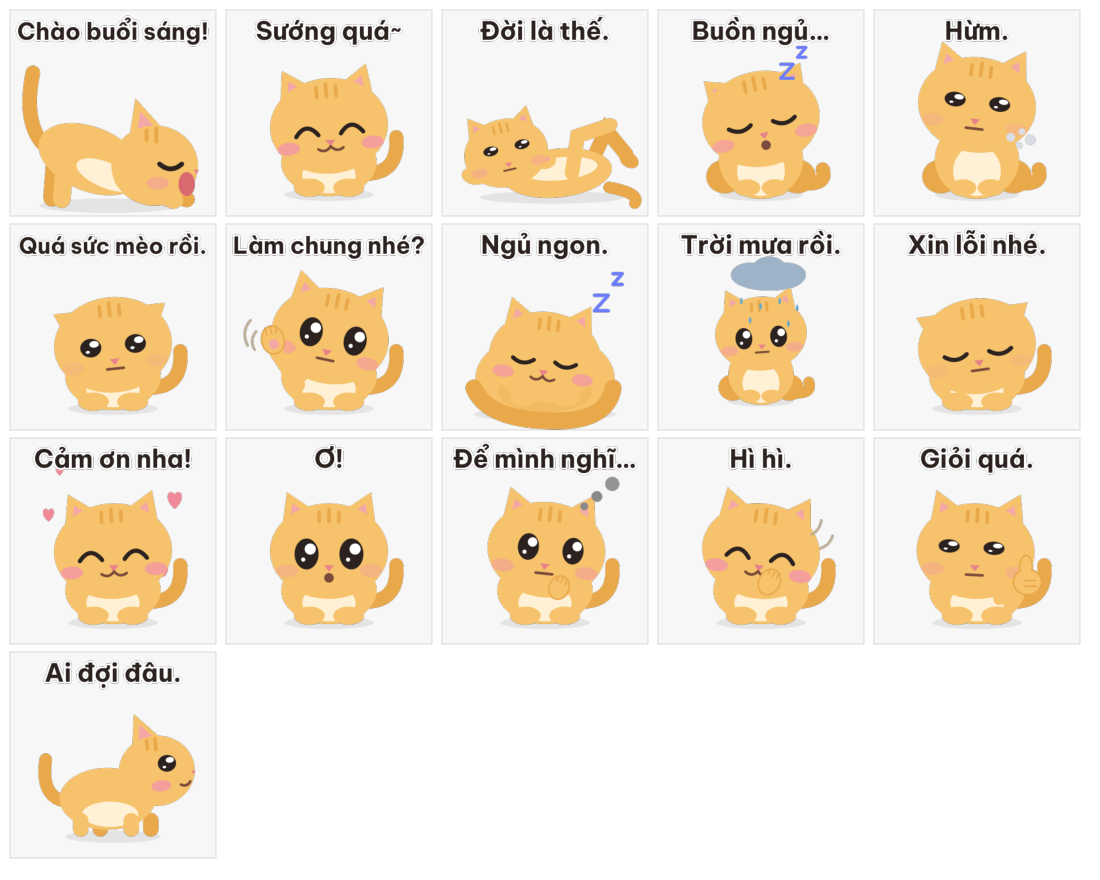
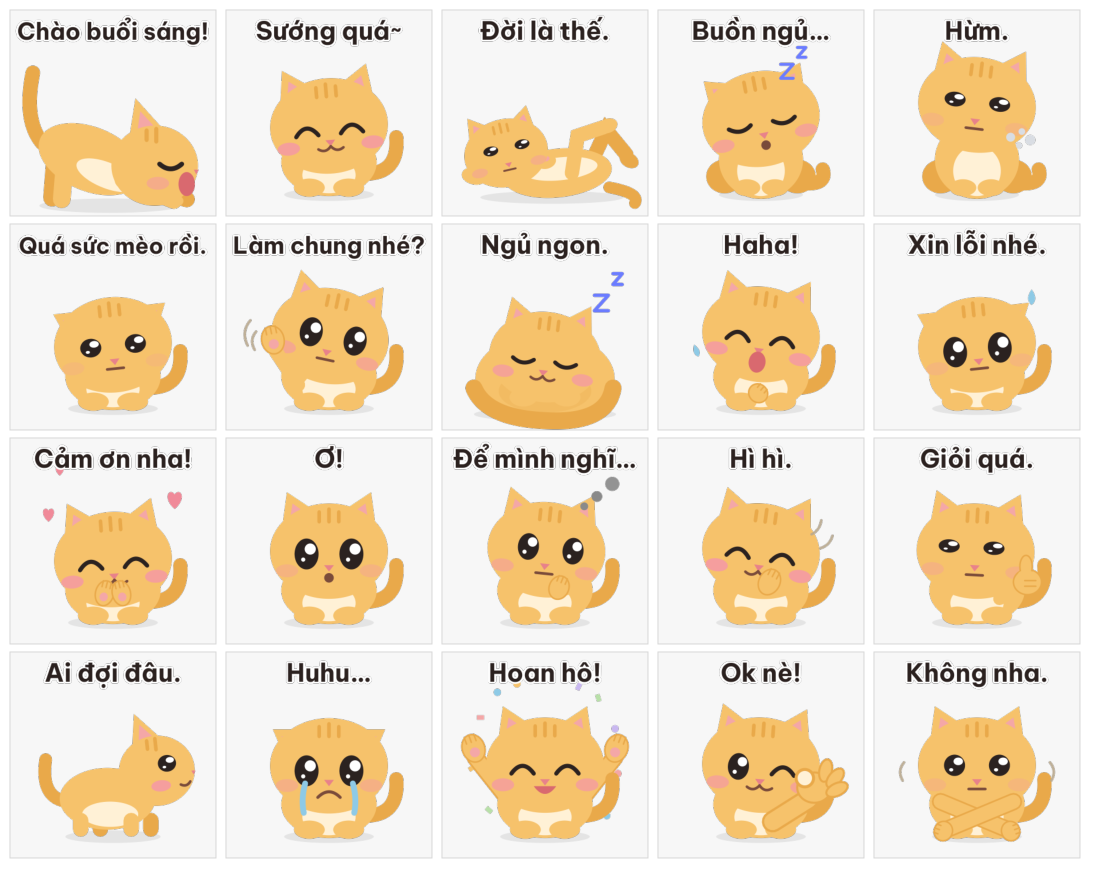
Stickers: 20 in the set: Haha, Huhu, Hoan hô, Ok nè, Không nha added; rain removed; thanks and sorry made distinct

diff --git a/docs/plans/assets/stickers/build_stickers.py b/docs/plans/assets/stickers/build_stickers.py
@@ -128,6 +128,8 @@ LOOK = {
 def eye_svg(e, look):
     if e["rx"] < 0.3 or e["a"] ** 3 < 0.02:
         return ""
+    if look.get("wink") and e["x"] > 60:
+        look = dict(look, happy=1, lid=1)
     x, y, rx, ry = e["x"] + look["gx"] * 0.75, e["y"] + look["gy"] * 0.75, e["rx"], e["ry"]
     s = rx / 7.5
     hp = max(0, min(1, 1.6 * look["happy"] - 0.6))
@@ -305,6 +307,47 @@ def thumbs_up(x, y):
     return o
 
 
+def sweat():
+    return '<path d="M99 30 Q104 37 99 41 Q94 37 99 30" fill="#8ecae6"/>'
+
+
+def tears():
+    t = "".join(stroke_path(d, "#8ecae6", 4.2) for d in ("M43 77 Q40 88 42 98", "M77 77 Q80 88 78 98"))
+    return t + '<path d="M52 87 Q60 79 68 87" fill="none" stroke="#7a4b3a" stroke-width="2.2" stroke-linecap="round"/>'
+
+
+def joy_tears():
+    o = ""
+    for x, y, r in ((22, 62, -30), (98, 62, 30), (14, 74, -20), (106, 74, 20)):
+        o += f'<path transform="translate({x},{y}) rotate({r})" d="M0 -5 Q4 1 0 4 Q-4 1 0 -5" fill="#8ecae6"/>'
+    return o
+
+
+def arm(d, w=10):
+    """A fur arm with a thin darker edge, so it shows against the cream belly or the fur of the body."""
+    return stroke_path(d, DARK, w + 2.4) + stroke_path(d, FUR, w)
+
+
+def arms_up():
+    return arm("M40 96 L10 58") + arm("M80 96 L110 58")
+
+
+def ok_sign(x, y):
+    """A paw making the 'ok' ring, three fingers up (sticker art)."""
+    o = f'<g transform="translate({f(x)},{f(y)}) scale(1.35) translate({f(-x)},{f(-y)})">' + arm(f"M76 98 L{f(x - 3)} {f(y + 6)}", 9)
+    o += f'<ellipse cx="{f(x)}" cy="{f(y)}" rx="9" ry="8" fill="{FUR}" stroke="{DARK}" stroke-width="1.1"/>'
+    for dx, dy, r in ((6, -9, 12), (11, -5, 40), (12, 1, 65)):
+        o += f'<ellipse cx="{f(x + dx)}" cy="{f(y + dy)}" rx="3.3" ry="6" fill="{FUR}" stroke="{DARK}" stroke-width="1.1" transform="rotate({r} {f(x + dx)} {f(y + dy)})"/>'
+    o += f'<circle cx="{f(x - 5)}" cy="{f(y - 5)}" r="4.6" fill="{BELLY}" stroke="{DARK}" stroke-width="1.6"/>' + "</g>"
+    return o
+
+
+def crossed_arms():
+    o = arm("M34 90 L82 110") + arm("M86 90 L38 110")
+    o += paw(84, 111, 7, 6.5, 70) + paw(36, 111, 7, 6.5, -70)
+    return o
+
+
 def arcs(*specs):
     return "".join(stroke_path(d, "#b9a98f", 1.8, 0.9) for d in specs)
 
@@ -384,14 +427,18 @@ STICKERS = [
     ("06", "Quá sức mèo rồi.", lambda: cat(STAND_F, LOOK["sad"])),
     ("08", "Làm chung nhé?", lambda: cat(STAND_F, dict(LOOK["curious"], roll=12, wide=0.6, cheek=0.7)) + stroke_path("M38 98 L22 74", FUR, 10) + paw(20, 66, 8, 10, -12, True) + arcs("M8 60 q-5 6 -1 13", "M4 52 q-7 8 -2 18")),
     ("09", "Ngủ ngon.", curled_up, dict(scale=2.7, dy=-14)),
-    ("10", "Trời mưa rồi.", lambda: cat(SIT_F, dict(LOOK["curious"], roll=-4, gx=0, gy=2, wide=0.2)) + wrap(cloud_and_rain(), 18, -16, 0.8), dict(scale=1.9, dy=40)),
-    ("11", "Xin lỗi nhé.", lambda: cat(STAND_F, dict(LOOK["sad"], roll=-8, dy=6, lid=0.08))),
-    ("12", "Cảm ơn nha!", lambda: hearts() + cat(STAND_F, dict(LOOK["purr"], roll=-3, dy=0))),
+    ("18", "Haha!", lambda: joy_tears() + cat(STAND_F, dict(LOOK["happy"], mouth="yawn", roll=8, dy=-2, cheek=0.95)) + paw(58, 104, 7, 6.5, 40)),
+    ("11", "Xin lỗi nhé.", lambda: cat(STAND_F, dict(LOOK["sad"], roll=-6, dy=5, lid=1, wide=0.9, cheek=0.3, droop=1)) + sweat()),
+    ("12", "Cảm ơn nha!", lambda: hearts() + cat(STAND_F, dict(LOOK["purr"], roll=-4, dy=6)) + paw(54, 94, 6.5, 9, 14, True) + paw(66, 94, 6.5, 9, -14, True)),
     ("13", "Ơ!", lambda: cat(STAND_F, LOOK["gasp"])),
     ("14", "Để mình nghĩ…", lambda: cat(STAND_F, dict(LOOK["think"], roll=6, dots=0)) + paw(70, 90, 7, 8.5, 22) + ell(88, 32, 2.8, 2.8, "#8a8a8a") + ell(97, 25, 3.8, 3.8, "#8a8a8a") + ell(108, 16, 5, 5, "#8a8a8a", 0, 0.9)),
     ("15", "Hì hì.", lambda: cat(STAND_F, dict(LOOK["purr"], roll=8, dy=0, mouth="smile", cheek=1.0)) + paw(66, 86, 7.5, 9.5, 28) + arcs("M96 52 q6 -3 7 -10", "M102 62 q7 -2 9 -9")),
     ("16", "Giỏi quá.", lambda: cat(STAND_F, dict(LOOK["smirk"], lid=0.5, gx=-4, roll=3, mouth="flat", cheek=0.4)) + thumbs_up(96, 86)),
     ("17", "Ai đợi đâu.", lambda: cat(STAND_S, dict(LOOK["rest"], lid=0.7, roll=-6, mouth="smile", cheek=1.0, gx=-3))),
+    ("19", "Huhu…", lambda: cat(STAND_F, dict(LOOK["sad"], roll=0, dy=0, lid=1, wide=1, cheek=0.5, droop=1, mouth="none")) + tears()),
+    ("20", "Hoan hô!", lambda: confetti() + arms_up() + cat(STAND_F, dict(LOOK["happy"], dy=0)) + paw(9, 52, 8, 10, -20, True) + paw(111, 52, 8, 10, 20, True)),
+    ("21", "Ok nè!", lambda: cat(STAND_F, dict(LOOK["rest"], wink=1, mouth="smile", cheek=0.8, roll=4)) + ok_sign(98, 80)),
+    ("22", "Không nha.", lambda: cat(STAND_F, dict(LOOK["rest"], lid=0.8, mouth="flat", cheek=0.3, roll=0)) + crossed_arms() + arcs("M8 62 q-5 6 -1 13", "M112 62 q5 6 1 13")),
 ]
 
 S = 2.45

diff --git a/docs/plans/sticker-expression-audit.md b/docs/plans/sticker-expression-audit.md
@@ -2,6 +2,8 @@
 
 Done after the author removed the clapping "Giỏi quá!" (it duplicated 16, "Giỏi quá." with a thumbs-up) and asked for a review of how different the emotions of the set are. Set: 16 stickers (Zalo needs 12 to 20), files `01.png` to `16.png` in [`assets/stickers/set-v0/`](assets/stickers/set-v0/). The list ids used in older documents (the first list had 15, then 16 and 17 were added) differ from the file numbers after the removal: see the mapping in `sticker-set-v0.md`.
 
+**Decided the same day (the author's choices): add Haha, Huhu, Hoan hô, "Ok nè!" and "Không nha." (5 new, so the set reaches 20 = the Zalo maximum), remove the rain sticker for them, and make "Cảm ơn nha!" and "Xin lỗi nhé." differ from their look-alikes. All were drawn the same day (section 5).**
+
 ## 1. What each sticker says (file number, text, emotion, eyes, mouth, gesture)
 
 | File | Text | Emotion or use | Eyes | Mouth | Gesture or prop |
@@ -24,7 +26,7 @@ Done after the author removed the clapping "Giỏi quá!" (it duplicated 16, "Gi
 | 16 | Ai đợi đâu. | proud, secretly glad | half lid | smile | side view, strong cheeks |
 
 ## 2. Findings
-1. **The set is subdued.** Eyes: 7 of 16 are closed arcs (01, 02, 04, 08, 10, 11, 14), 5 are half-lidded deadpan (03, 05, 06, 15, 16 is half-lidded too), the rest open. Mouths: 6 are a flat line (03, 05, 06, 07, 13, 15). Nothing has a wide-open mouth for laughter or crying. At 120 px the face is what is read, so many stickers share one face (closed arcs and a small smile).
+1. **The set is subdued.** Eyes: 7 of 16 are closed arcs (01, 02, 04, 08, 10, 11, 14), 5 are half-lidded deadpan (03, 05, 06, 15, 16), the rest open. Mouths: 6 are a flat line (03, 05, 06, 07, 13, 15). Nothing has a wide-open mouth for laughter or crying. At 120 px the face is what is read, so many stickers share one face (closed arcs and a small smile).
 2. **Near-duplicates.** 02 "Sướng quá~" and 11 "Cảm ơn nha!" have the same face (closed arcs, smile) and differ only by the hearts. 14 "Hì hì." also has closed arcs; it is saved by the paw over the mouth. 06 and 10 are both "sad ears" (overwhelmed, sorry).
 3. **Gaps in the emotions people send** (compared with the uses listed in `sticker-set-v1-direction.md` section 1): **laughing out loud** ("haha"), **crying** ("huhu"), **celebrating** (the clap went; nothing high-energy and happy is left), **agreeing** ("ok") and **saying no** ("không"), **embarrassed** (shy), **mildly angry** (05 is a sulk, not anger). Love is covered by 11.
 4. **Rain (09)** is a weather state, not an emotion; it will be sent rarely compared with the gaps above.
@@ -51,3 +53,6 @@ Done after the author removed the clapping "Giỏi quá!" (it duplicated 16, "Gi
 
 ## 4. Constraints to keep
 At most 4 words of text, nothing that Zalo bans, flat style, no app name (ADR-0049); no guilt (charter). Every gesture above (circle, crossed paws, tears) is sticker art, not an app pose; the face comes from the rig's dials (lid, mouth, cheek, ears).
+
+## 5. Result (2026-11-11): the set of 20
+Files `01.png` to `20.png`. Compared with the 16 above: the rain sticker is replaced by **09 "Haha!"** (closed arcs, a wide open mouth, tears of joy, a paw on the belly); **10 "Xin lỗi nhé."** now has big wet eyes, ears down and a sweat drop; **11 "Cảm ơn nha!"** presses the paws together under the chin, with hearts; and four are added at the end: **17 "Huhu…"** (wide wet eyes, two streams of tears, a frown, ears down), **18 "Hoan hô!"** (both paws up in a V, confetti), **19 "Ok nè!"** (a wink and a paw making the ok ring), **20 "Không nha."** (arms crossed in an X, firm eyes). Files 12 to 16 are unchanged from the list above (Ơ!, Để mình nghĩ…, Hì hì., Giỏi quá., Ai đợi đâu.). The gestures are sticker art; the faces use the rig's dials. Sarcasm share is still 5 of 20 (25%): 03, 05, 14, 15, 16. The full mapping from list ids to files is in `sticker-set-v0.md`.

diff --git a/docs/plans/sticker-set-v0.md b/docs/plans/sticker-set-v0.md
@@ -31,6 +31,8 @@ All 15 stickers, the icon, the preview and the 9 banners exist as PNG in [`asset
 
 **Third pass (2026-11-11):** the six stickers that looked alike at 120 px now differ by silhouette or gesture: 05 sits and puffs, 08 beckons with a raised paw, 14 rests a paw on the chin under a thought bubble, 15 giggles behind a paw, 16 claps slowly, 17 turns side-on (see [`six_distinct.png`](assets/stickers/direction-v1/six_distinct.png)); 03 lost its thought dots. The paws and arcs are sticker art, not rig poses.
 
+**Seventh pass (2026-11-11), after the audit:** the rain sticker (list id 10) is replaced by **"Haha!"** (list id 18) and four are added: 19 "Huhu…", 20 "Hoan hô!", 21 "Ok nè!", 22 "Không nha."; "Xin lỗi nhé." has wet eyes and a sweat drop and "Cảm ơn nha!" presses the paws together. The set is **20 stickers**, the maximum. The file numbers are by position: 01 to 06 = list 01 to 06; 07 = 08 "Làm chung nhé?"; 08 = 09 "Ngủ ngon."; **09 = 18 "Haha!"**; 10 = 11 "Xin lỗi nhé."; 11 = 12 "Cảm ơn nha!"; 12 = 13 "Ơ!"; 13 = 14 "Để mình nghĩ…"; 14 = 15 "Hì hì."; 15 = 16 "Giỏi quá."; 16 = 17 "Ai đợi đâu."; **17 = 19 "Huhu…"; 18 = 20 "Hoan hô!"; 19 = 21 "Ok nè!"; 20 = 22 "Không nha."** The sixth-pass numbering below is the 16-sticker one.
+
 **Sixth pass (2026-11-11): the clapping "Giỏi quá!" (list id 07) is removed** because it duplicated the thumbs-up one. The set is 16 stickers, and the files are numbered by position (Zalo wants 01, 02, ... without a gap), so from list id 08 on the file number is one less: **file 07 = list 08** "Làm chung nhé?", 08 = 09 "Ngủ ngon.", 09 = 10 "Trời mưa rồi.", 10 = 11 "Xin lỗi nhé.", 11 = 12 "Cảm ơn nha!", 12 = 13 "Ơ!", 13 = 14 "Để mình nghĩ…", 14 = 15 "Hì hì.", 15 = 16 "Giỏi quá." (thumbs-up), 16 = 17 "Ai đợi đâu."; files 01 to 06 are list 01 to 06. The audit of the emotions is in [`sticker-expression-audit.md`](sticker-expression-audit.md).
 
 **Fifth pass (2026-11-11, the author's notes):** 04 is sleepy (closed eyes, a small yawn, head tipped, "z"); 10 has the cloud below the text; 07 claps; 16 is "Giỏi quá." with a thumbs-up and the deadpan face (ADR-0050). The thumbs-up and the clap are sticker art.

diff --git a/docs/decisions/0050-sticker-second-pass-sarcasm-lounging-and-mochi-sleep.md b/docs/decisions/0050-sticker-second-pass-sarcasm-lounging-and-mochi-sleep.md
@@ -23,6 +23,9 @@ After looking at the set the author asked for: 04 "Buồn ngủ…" to look slee
 ## Later the same day (3)
 The clapping 07 "Giỏi quá!" was removed (it duplicated 16, the thumbs-up "Giỏi quá."). The set is 16 stickers; the sarcasm share is 5 of 16 (about 31%: 03, 05, 15 "Hì hì.", 16 "Giỏi quá.", 17 "Ai đợi đâu."). The expression audit is `docs/plans/sticker-expression-audit.md`.
 
+## Later the same day (4)
+After the audit (`docs/plans/sticker-expression-audit.md`) the author chose to add five emotions the set lacked (laughing, crying, celebrating, "ok", "no"), to drop the rain sticker for them, and to make "Cảm ơn nha!" and "Xin lỗi nhé." differ from their look-alikes. The set is **20 stickers** (the Zalo maximum); sarcasm is 5 of 20 (25%). The paws, arms, tears and the ok ring are sticker art.
+
 ## Consequences
 - Spec 06 section 7 and the set list are updated: 16 are in the app (matched to a state) and the sticker-only art is now 03, 09 and the cloud of 10; the set is 17 stickers.
 - The sarcasm texts have not been through the author's ear for Vietnamese banter (backlog E3).
